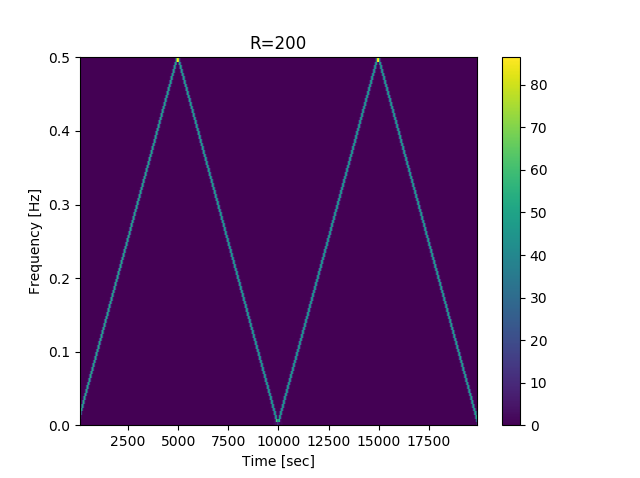
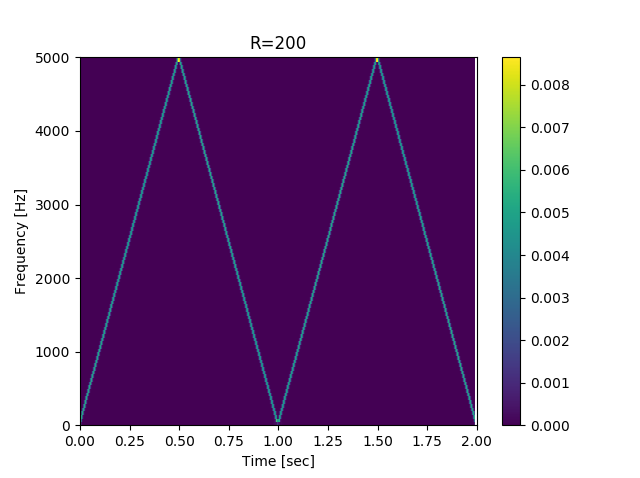
program6 reviw

diff --git a/hw05/program_6/program_6_1/program_6_2.py b/hw05/program_6/program_6_1/program_6_2.py
@@ -1,10 +1,10 @@
-#!/usr/bin/env python3
 # -*- coding: utf-8 -*-
 """
-Created on Thu Nov 16 10:38:10 2017
+Created on Sat Nov 18 22:11:12 2017
 
-@author: rocky
+@author: Rocky
 """
+
 import numpy as np 
 import matplotlib.pyplot as plt 
 from scipy import signal
@@ -14,9 +14,9 @@ if __name__ == '__main__':
     pi = np.pi
     omega_0 = 10*pi*10**-5
     seq = np.arange(0,20000)    
-    x_n = np.cos(omega_0 *(seq*seq))
-    f, t, Sxx = signal.spectrogram(x_n,fs=10000,window='hamming',nperseg=50,noverlap=49,nfft=50)
-    plt.title('R = 50')
+    x_n = np.cos(omega_0 *(seq*seq*seq))
+    f, t, Sxx = signal.spectrogram(x_n,fs=10000,window='hamming',nperseg=200,noverlap=199)
+    plt.title('R=200')
     plt.pcolormesh(t, f, Sxx)   
     plt.colorbar()
     plt.xlim(0,2)

diff --git a/hw05/program_6/program_6_1/program_6_1.py b/hw05/program_6/program_6_1/program_6_1.py
@@ -15,10 +15,11 @@ if __name__ == '__main__':
     omega_0 = 10*pi*10**-5
     seq = np.arange(0,20000)    
     x_n = np.cos(omega_0 *(seq*seq))
-    f, t, Sxx = signal.spectrogram(x_n,window='hamming',nperseg=200,noverlap=199)
+    f, t, Sxx = signal.spectrogram(x_n,fs=10000,window='hamming',nperseg=200,noverlap=199)
     plt.title('R=200')
     plt.pcolormesh(t, f, Sxx)   
     plt.colorbar()
+    plt.xlim(0,2)
     plt.ylabel('Frequency [Hz]')
     plt.xlabel('Time [sec]')
     plt.show()
